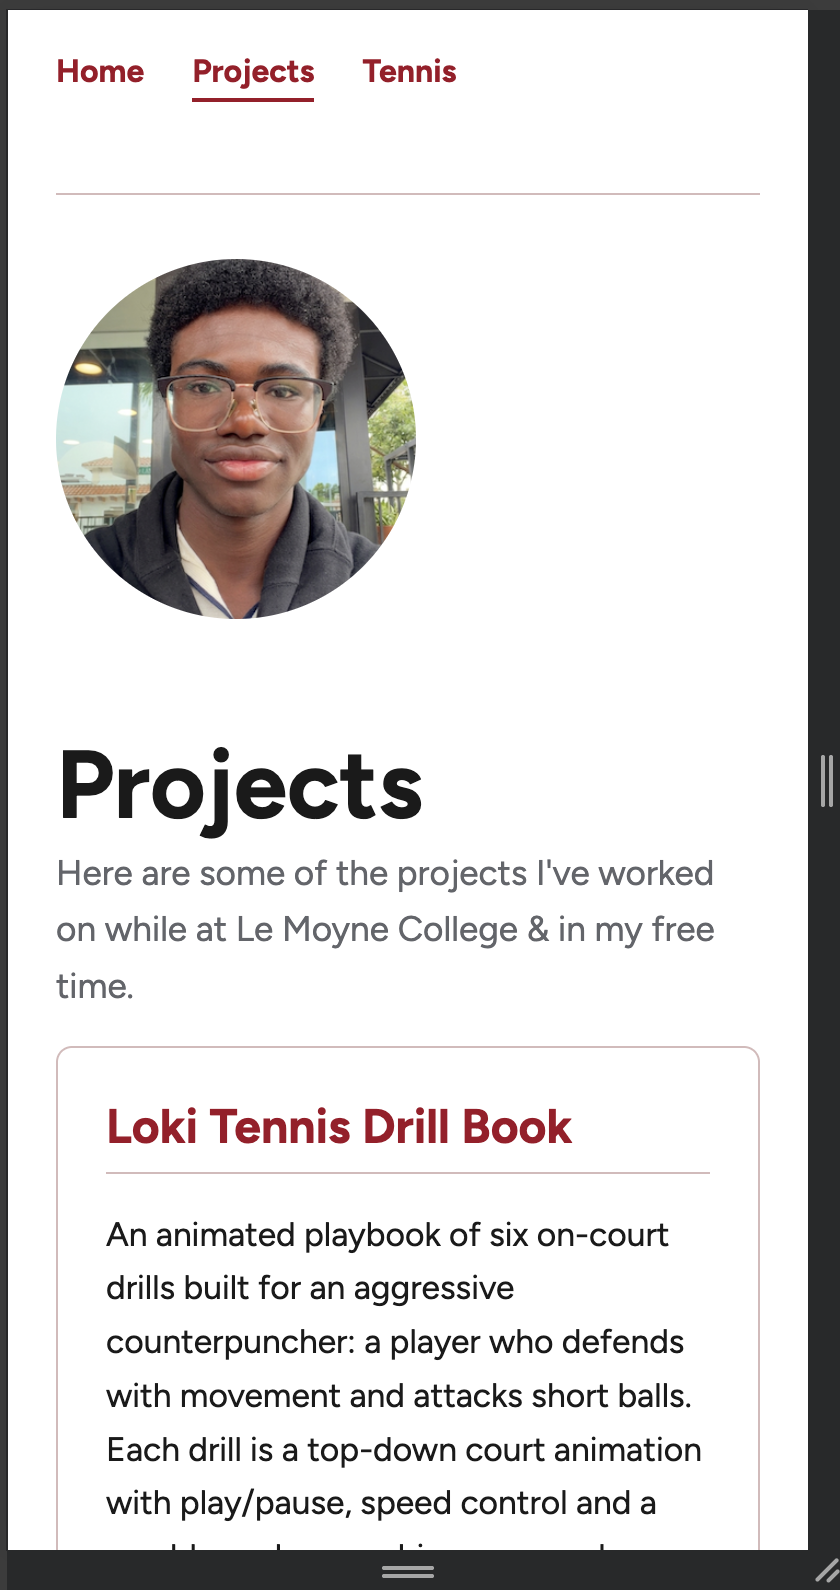
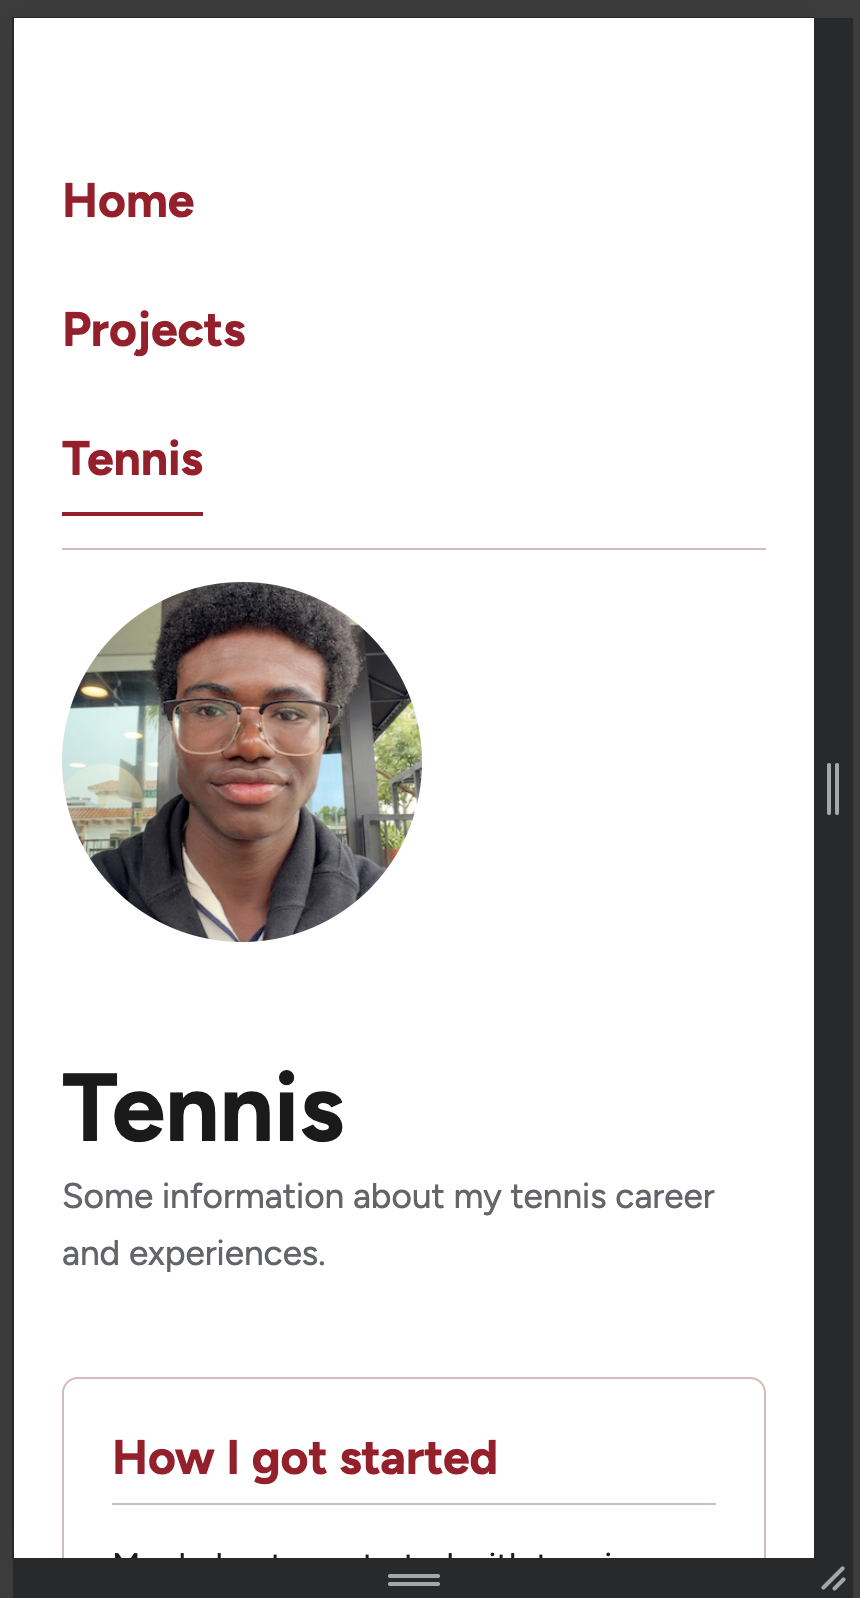
Lab 14 done

Changed region(s): [[0.0619, 0.0925, 0.8357, 0.9553], [0.0, 0.0, 1.0, 1.0], [0.0619, 0.8629, 0.0929, 0.9862]]

diff --git a/styles.css b/styles.css
@@ -53,18 +53,6 @@ p {
     margin-bottom: 1rem;
 }
 
-/* Lab 12 · Task 3: footer */
-footer {
-    margin-top: 4rem;
-    color: var(--text-muted);
-    font-size: 0.9rem;
-    border-top: 1px solid var(--border);
-    padding-top: 1.5rem;
-    display: flex;
-    justify-content: space-between;
-    align-items: center;
-}
-
 footer p {
     margin: 0;
     font-size: inherit;
@@ -102,11 +90,14 @@ li {
 }
 
 /* Class 13 · Step 3: the nav bar */
+/* Lab 14 · Task 5: bigger tap targets for the nav */
 
 nav a {
+    display: inline-block;
+    font-size: 1.5rem;
     text-decoration: none;
     font-weight: 700;
-    padding-bottom: 0.25rem; 
+    padding: 0.5rem 0; 
     border-bottom: 2px solid transparent;
 }
 
@@ -121,11 +112,21 @@ nav a.current {
 }
 
 /* Class 13 · Step 3: nav as a row */
+/* Lab 14 · Task 1: the nav stacks on narrow screens */
 nav ul {
     display: flex;
-    gap: 1.5rem;
+    flex-direction: column;
+    gap: 0.5rem;
     list-style: none;
     padding-left: 0;
+    margin-bottom: 0;
+}
+
+@media (min-width: 40rem) {
+    nav ul {
+        flex-direction: row;
+        gap: 1.5rem;
+    }
 }
 
 nav li {
@@ -137,9 +138,17 @@ nav li {
 /* Lab 13 · Task 4: separate the bar from the header */
 
 nav {
-    margin-bottom: 2rem;
+    margin-bottom: 1rem;
     border-bottom: 1px solid var(--border);
-    padding-bottom: 2rem;
+    padding-bottom: 1rem;
+}
+
+/* Lab 14 · Task 5: less space under the nav on phones */
+@media (min-width: 40rem) {
+    nav {
+        margin-bottom: 2rem;
+        padding-bottom: 2rem;
+    }
 }
 
 /* Lab 13 · Task 5: keyboard focus outline */
@@ -154,6 +163,9 @@ nav a:focus-visible {
     display: flex;
     flex-direction: column;
     gap: 1.5rem;
+    justify-content: space-between;
+    align-items: flex-start;
+
 }
 
 .card {
@@ -173,5 +185,39 @@ nav a:focus-visible {
 @media (min-width: 40rem) {
     .cards {
         flex-direction: row;
+    }
+}
+
+/* Lab 12 · Task 3: footer */
+/* Lab 14 · Task 4: footer stacks on narrow screens */
+footer {
+    margin-top: 4rem;
+    color: var(--text-muted);
+    font-size: 0.9rem;
+    border-top: 1px solid var(--border);
+    padding-top: 1.5rem;
+    display: flex;
+    flex-direction: column;
+    gap: 0.5rem;
+    align-items: center;
+}
+
+@media (min-width: 40rem) {
+    footer {
+        flex-direction: row;
+        justify-content: space-between;
+    }
+}
+
+/* Lab 14 · extra: space between the header photo and the cards (tennis and projects pages) */
+.tennis-main,
+.projects-main {
+    margin-top: 2rem;
+}
+
+/* Lab 14 · Task 6: second breakpoint, widen the page on big monitors */
+@media (min-width: 64rem) {
+    body {
+        max-width: 60rem;
     }
 }

diff --git a/tennis.html b/tennis.html
@@ -36,24 +36,27 @@
         </div>
     </header>
 
-    <main>
-        <section>
+    <main class="tennis-main">
+    <!-- Lab 14 · Task 3: cards on my tennis page -->
+    <div class="cards">
+        <section class="card">
             <h2>How I got started</h2>
             <p>My dad got me started with tennis when I was about two or three years old in the basement, with a ball tied to a string tied to the ceiling. 
                 I would hit it back and forth, and it was quite fun, honestly. 
                 Then I started off at my first summer camp when I was five years old.</p>
         </section>    
-         <section>
+         <section class="card">
             <h2>Places I've Traveled for tennis</h2>
             <p>Kayseri, Turkey - Visited in June 2026. </p>
             <p>Reykjavik, Iceland - Visited in March 2018.</p>
             <p>Mallorca, Spain - Visited in March 2017.</p>
          </section> 
-         <section>
+         <section class="card">
             <h2>What I'm looking forward to</h2>
             <p>I'm looking forward to the upcoming 2027 season with the Le Moyne tennis team, 
                and I'm looking forward to travelling and playing some tournaments this winter break.</p>
         </section>
+    </div>   
     </main>
 
     <!-- Lab 12 · Task 3: two things in the footer -->

diff --git a/projects.html b/projects.html
@@ -35,7 +35,7 @@
         </div>
     </header>
 
-    <main>
+    <main class="projects-main">
         <!-- Class 14 · Step 1: a row of cards -->
         <div class = "cards">
         <section class="card">

diff --git a/NOTES.md b/NOTES.md
@@ -5,3 +5,16 @@ On a phone, the header was too wide to fit the photo and my name side by side, s
 1. My three pages are Home, Projects, and Tennis. Home introduces me, Projects shows what I've built, and Tennis covers the sport I spend most of my time on and where it has taken me.
 2. If each page carried its own copy of the styles, I would have had to make the same edit three times, once in each file. I could easily miss one, and the pages would stop matching each other. Luckily having one styles.css, one change updates every page.
 3. I don't know how to make the nav stack or shrink nicely on a phone-sized screen yet.3
+
+## Week 9, Friday
+1. For breakpoint I used min-width: 40rem (640px) for the nav, cards and footer. At that width there is enough room for three cards side by side, so it's where the row layout stops being cramped. For Task 6 I added a second breakpoint at 64rem that widens the page to 60rem on big monitors. 
+
+2. The two things I found and fixed at phone width were that the nav links were small and close together, which makes them hard to hit with a thumb. I made them "display: inline-block", raised the font size to 1.5rem, and added "padding: 0.5rem 0" so each link is taller.
+
+The nav took up too much vertical space once it stacked on a phone. I made the margin and padding under it 1rem by default, and put the 2rem back inside the @media block for wide screens.
+
+On the Tennis and Projects pages the header photo was overlapping with the first row of cards, so I added top margin to main on those pages. On Tennis I also found a "<div class="cards">" that was never closed, and I added the "</div>".
+
+3. For justify-content and align-items, align-items changed how the cards were laid out depending on the value. With center, the cards lined up through the middle, but they were different sizes because each card has a different amount of text. With stretch, all the cards were the same size, but the cards with less text had a lot of blank space. flex-start made the cards ascend and flex-end made them descend, also because of the amount of text. With flex-direction: column;, the cards stacked vertically instead of horizontally. justify-content did a whole lot of nothing based on what I saw. I think it did nothing because my cards already fill the whole row, so there was no extra space to move them around in.
+
+4. The plain rule applies on every screen, so the phone layout works with no query at all. The media query then adds changes only when there is room. If it were the other way round, phones would have to undo the wide layout, and a phone is the cramped case where a mistake costs the most. Writing narrow first means each rule only adds what the bigger screen needs.
